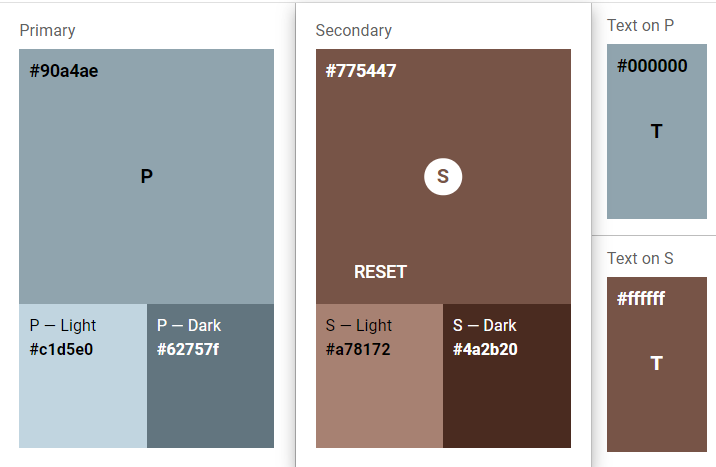
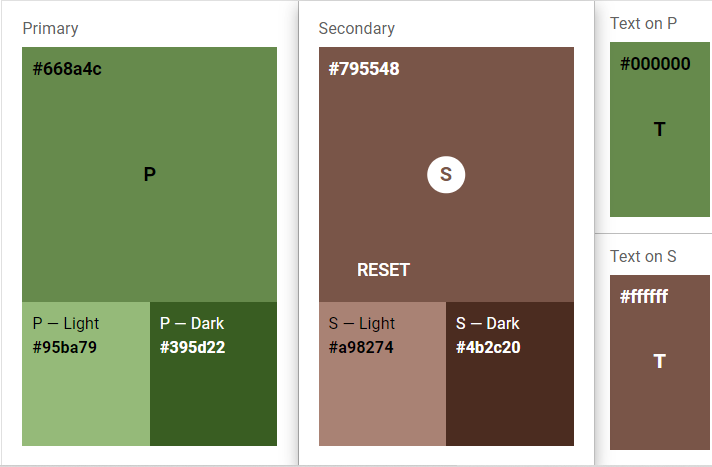
38ª confirmación

diff --git a/Tema1.html b/Tema1.html
@@ -19,7 +19,7 @@
     <h3>Herramientas de interés:</h3>
     <a href="https://material.io/resources/color/#!/?view.left=0&view.right=1&primary.color=6002ee&secondary.color=6D4C41" target="_blank">Material.io</a><br>
     <a href="https://paletton.com/#uid=5000W0kioN2eP6Tdhem7j+W00++" target="_blank">Paletton</a><br>
-    <a href="https://material.io/resources/color/#!/?view.left=0&view.right=0&primary.color=90A4AE&secondary.color=775447" target="_blank">Paleta de colores</a><br>
+    <a href="https://m2.material.io/resources/color/#!/?view.left=0&view.right=0&primary.color=668A4c&secondary.color=795548&primary.text.color=000000" target="_blank">Paleta de colores</a><br>
     <img src="PaletaColores.png" alt="Imagen: Se debería mostrar la paleta de colores" width="400" height="300">
     <h2>1.2 Iconos:</h2>
     <a href="iconos.html" target="_blank">Documentación Iconos Material Desing</a><br>

diff --git a/Colores.css b/Colores.css
@@ -1,6 +1,18 @@
 html{
-    background-color: #90a4ae;
+    background-color: #fafafa;
 }
 h1, h2, h3{
-    background-color: #795548;
+    background-color: #668a4c;
 }
+
+/*  
+  <color name="primaryColor">#668a4c</color>
+  <color name="primaryLightColor">#95ba79</color>
+  <color name="primaryDarkColor">#395d22</color>
+  <color name="secondaryColor">#795548</color>
+  <color name="secondaryLightColor">#a98274</color>
+  <color name="secondaryDarkColor">#4b2c20</color>
+  <color name="primaryTextColor">#000000</color>
+  <color name="secondaryTextColor">#ffffff</color>
+*/
+ 
